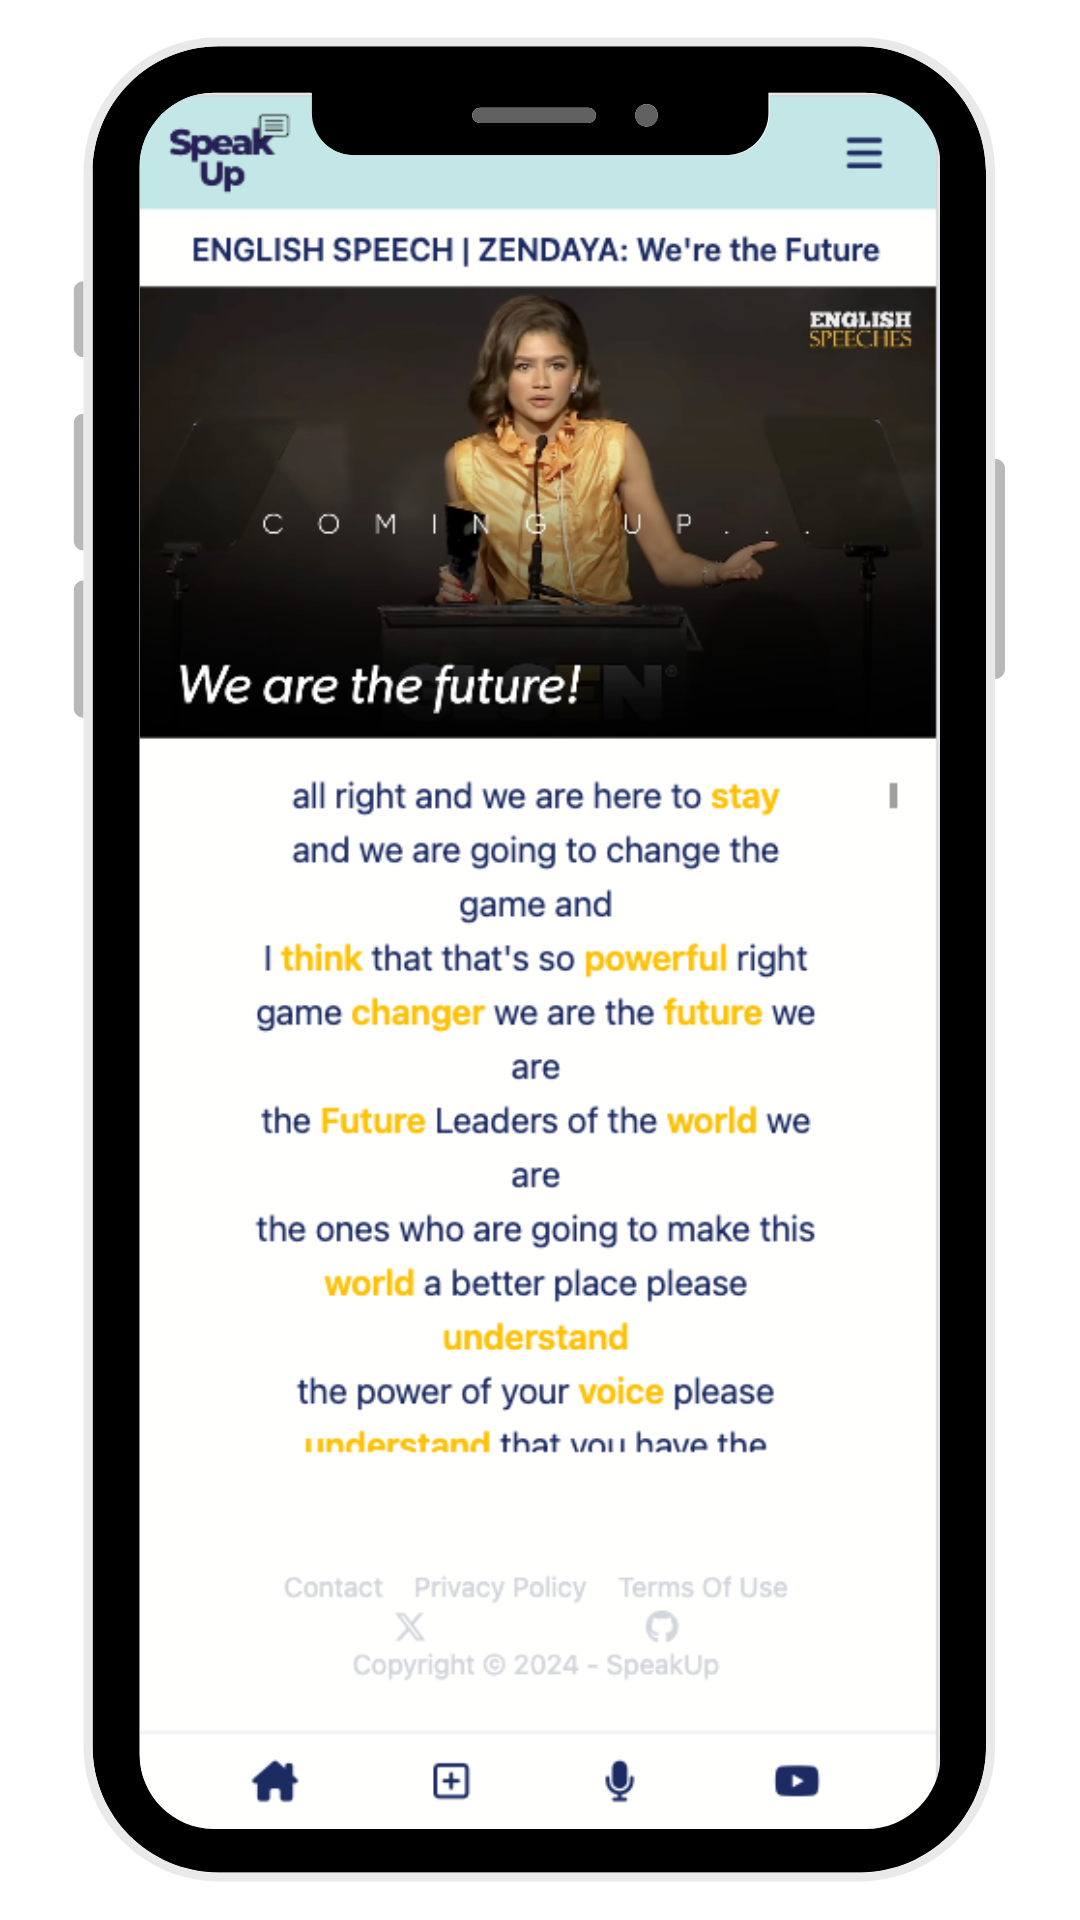
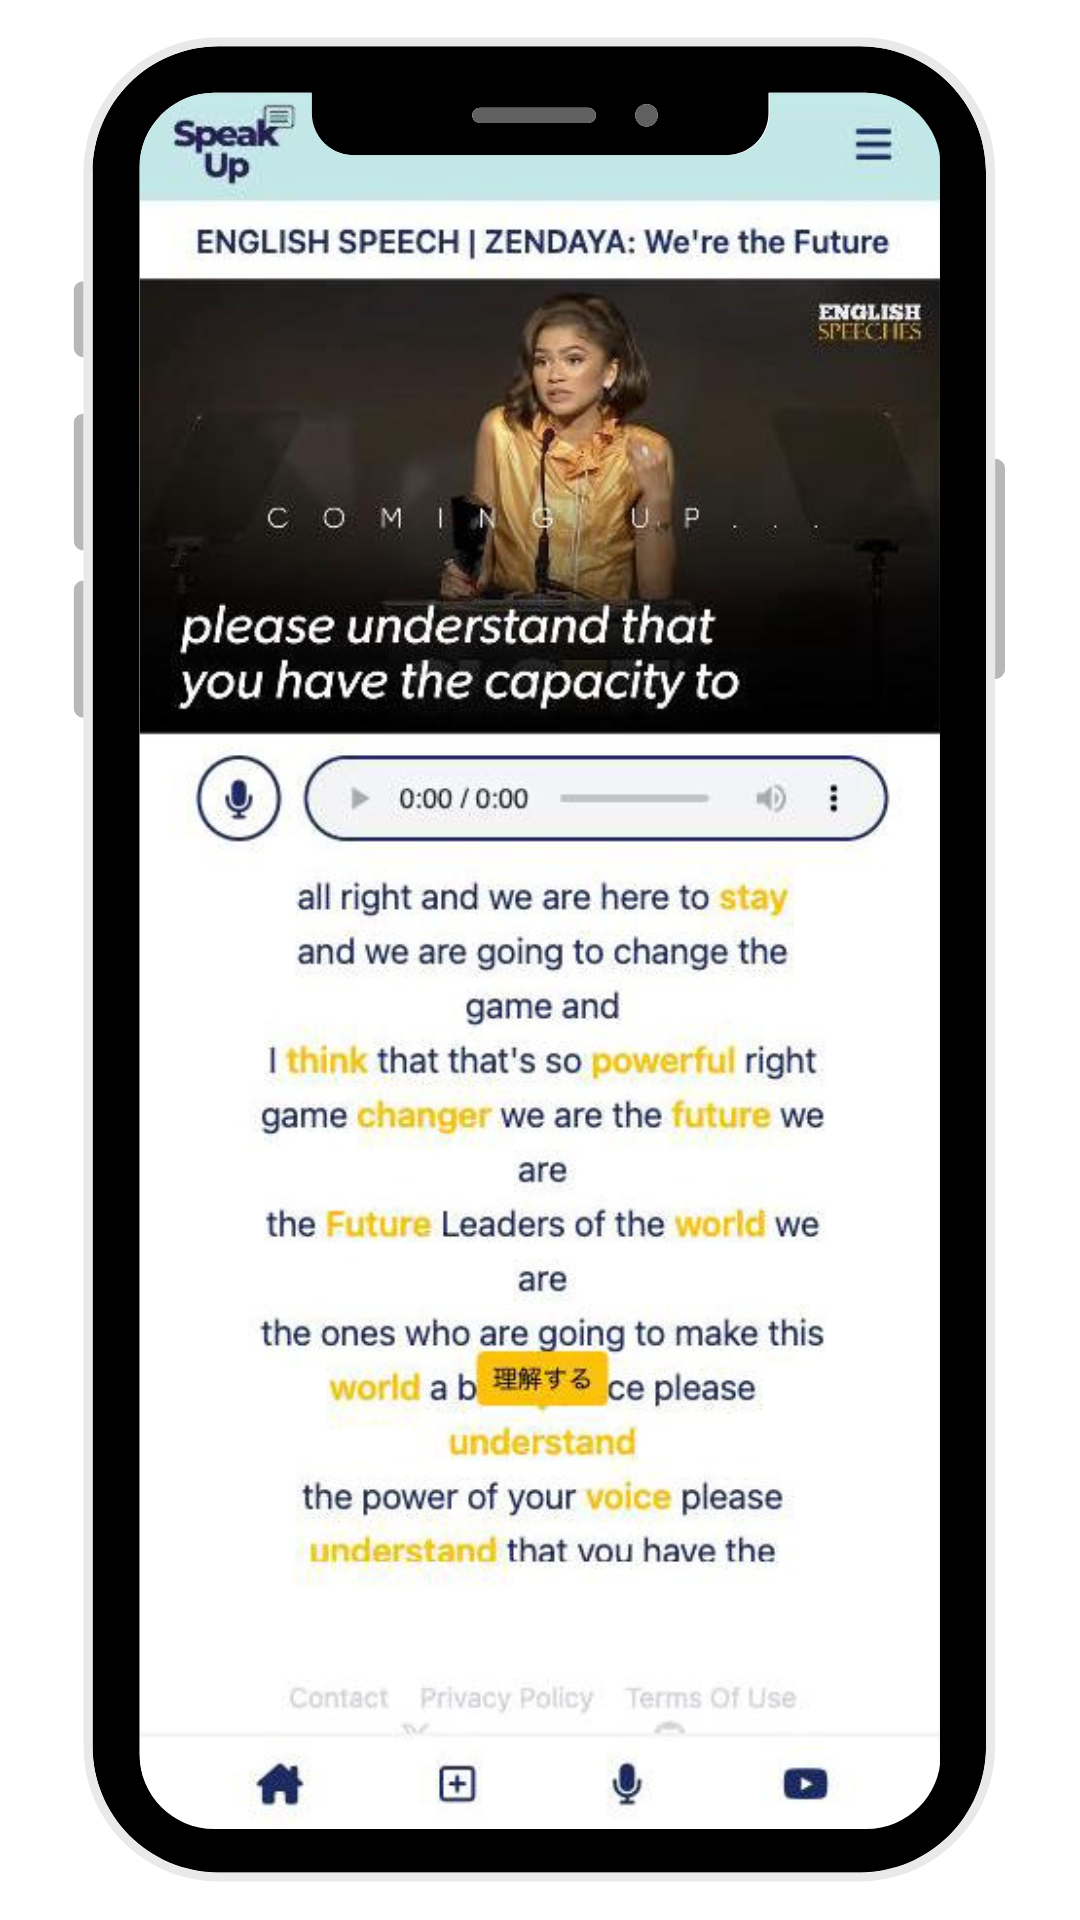
shadowing録音機能実装

diff --git a/app/javascript/voice_recording.js b/app/javascript/voice_recording.js
@@ -1,0 +1,33 @@
+let mediaRecorder;
+let localStream;
+let recordButton = document.getElementById('recordButton');
+let stopButton = document.getElementById('stopButton');
+
+recordButton.addEventListener('click', startRecording);
+stopButton.addEventListener('click', stopRecording);
+
+function startRecording() {
+    navigator.mediaDevices.getUserMedia({audio: true })
+    .then(function (stream) {
+        localStream = stream;
+        mediaRecorder = new MediaRecorder(stream);
+        mediaRecorder.start();
+        console.log("Status: " + mediaRecorder.state);
+        recordButton.style.display = 'none'; // 録音開始ボタンを非表示に
+        stopButton.style.display = 'block'; // 停止ボタンを表示する
+    }).catch(function (err) {
+        console.log(err);
+    });
+}
+
+function stopRecording() {
+    mediaRecorder.stop();
+
+    recordButton.style.display = 'block'; // 録音開始ボタンを表示する
+    stopButton.style.display = 'none'; // 停止ボタンを非表示に
+
+    mediaRecorder.ondataavailable = function (event) {
+        document.getElementById("audioPlayer").src = window.URL.createObjectURL(event.data);
+    }
+    localStream.getTracks().forEach(track => track.stop());
+}
